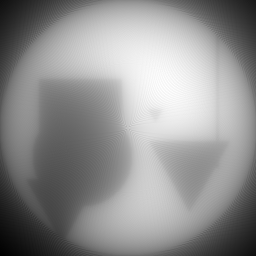
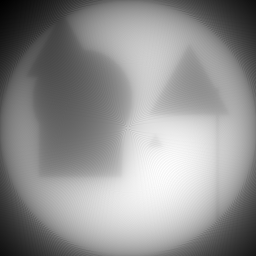
Did a partitioning test - not very promising - but slightly better

diff --git a/testsirt.py b/testsirt.py
@@ -1,0 +1,47 @@
+from futhark import SIRT
+from futhark import backprojection_test
+from futhark import backprojection
+from futhark import forwardprojection
+import numpy as np
+import tomo_lib
+import dataprint_lib
+import sys
+from scipy.sparse import csr_matrix
+import scipy.io
+import scipy.misc
+from scipy import ndimage
+
+def rescale(values):
+    minimum = np.min(values)
+    maximum = np.max(values)
+    return (values - minimum)/(maximum-minimum)
+
+def savebackprojection(filename, data, size):
+    reshaped = np.flip(np.flip(data,0).reshape((size,size)),1)
+    scipy.misc.toimage(reshaped).save(filename)
+
+def main(argv):
+    size = 256
+    theta_rad = tomo_lib.get_angles(size)
+    rays = tomo_lib.get_rays(size)
+    phantom = tomo_lib.get_phantom(size)
+    phantom = rescale(phantom.flatten().astype(np.float32))
+    sinogram = rescale(tomo_lib.get_sinogram(phantom.reshape(size,size), rays,theta_rad))
+
+    forward = forwardprojection.forwardprojection()
+    fpresult = forward.main(theta_rad.astype(np.float32), rays.astype(np.float32), phantom).get()
+    fpresult = rescale(fpresult)
+    tomo_lib.savesinogram("output//forwardprojection.png",fpresult, len(rays), len(theta_rad))
+
+    back = backprojection_test.backprojection_test()
+    bpresult = back.main(theta_rad.astype(np.float32), rays.astype(np.float32), size, sinogram.flatten().astype(np.float32)).get()
+    bpresult = rescale(bpresult)
+    savebackprojection("output//backprojectiontest.png",bpresult, size)
+
+    back = backprojection.backprojection()
+    bpresult = back.main(theta_rad.astype(np.float32), rays.astype(np.float32), size, sinogram.flatten().astype(np.float32)).get()
+    bpresult = rescale(bpresult)
+    savebackprojection("output//backprojection.png",bpresult, size)
+
+if __name__ == '__main__':
+    main(sys.argv)
